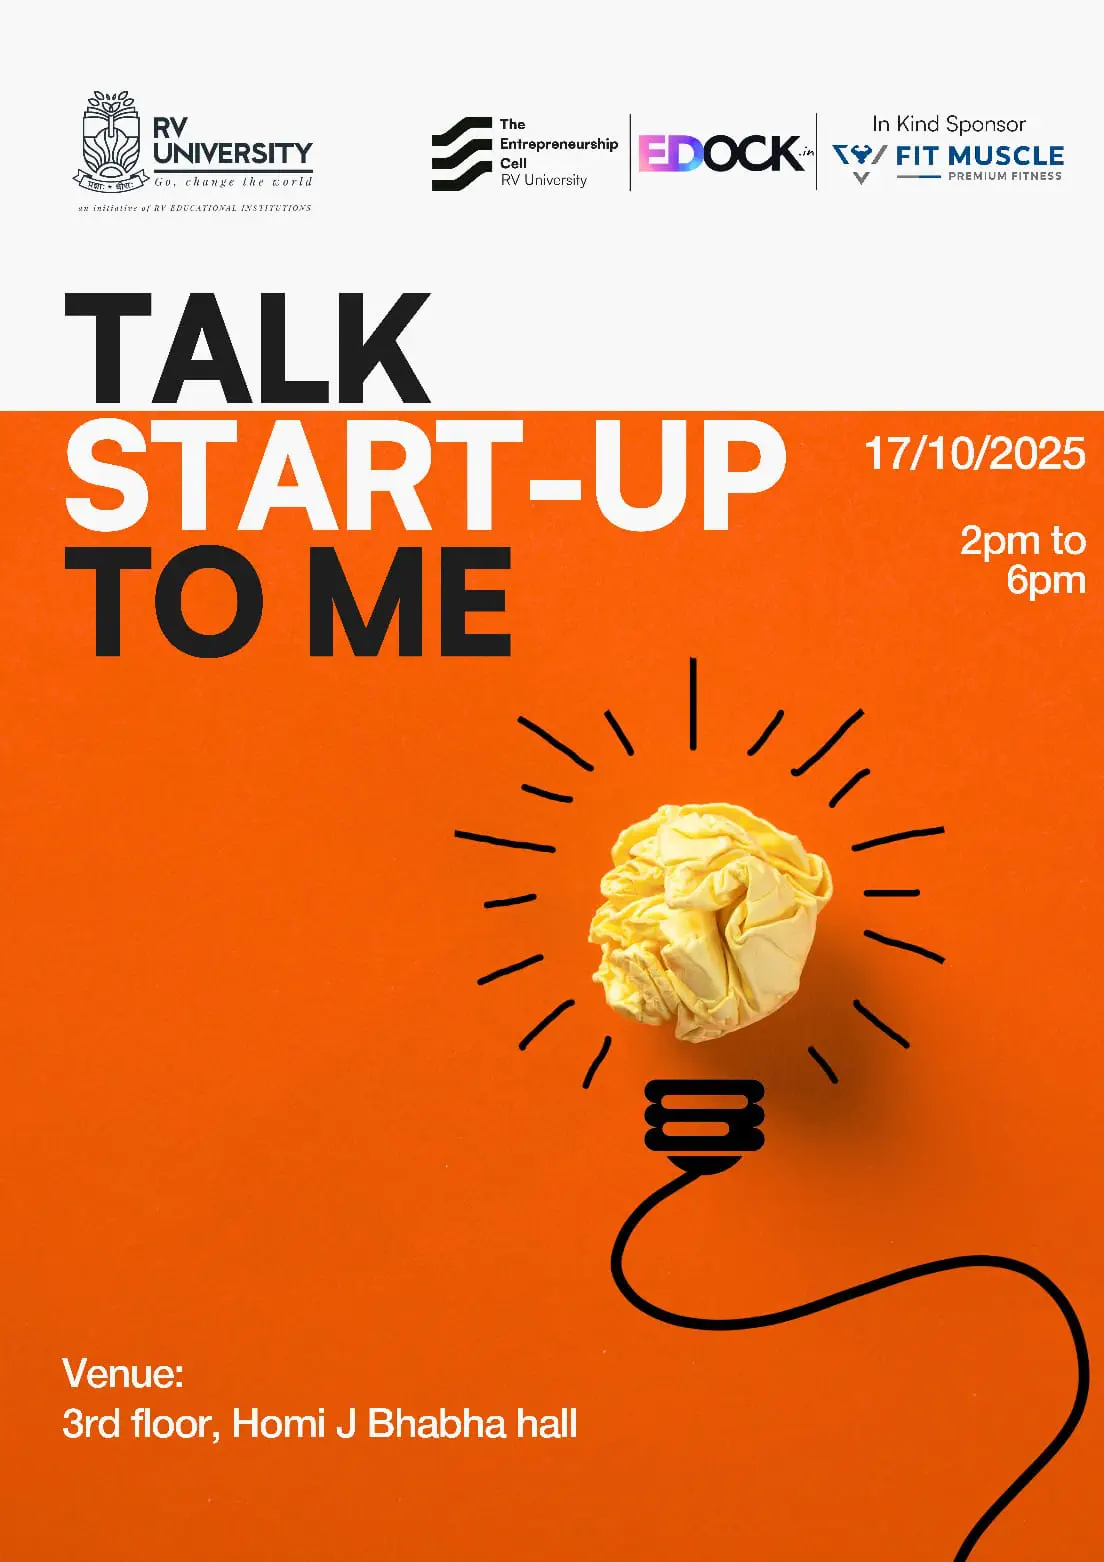
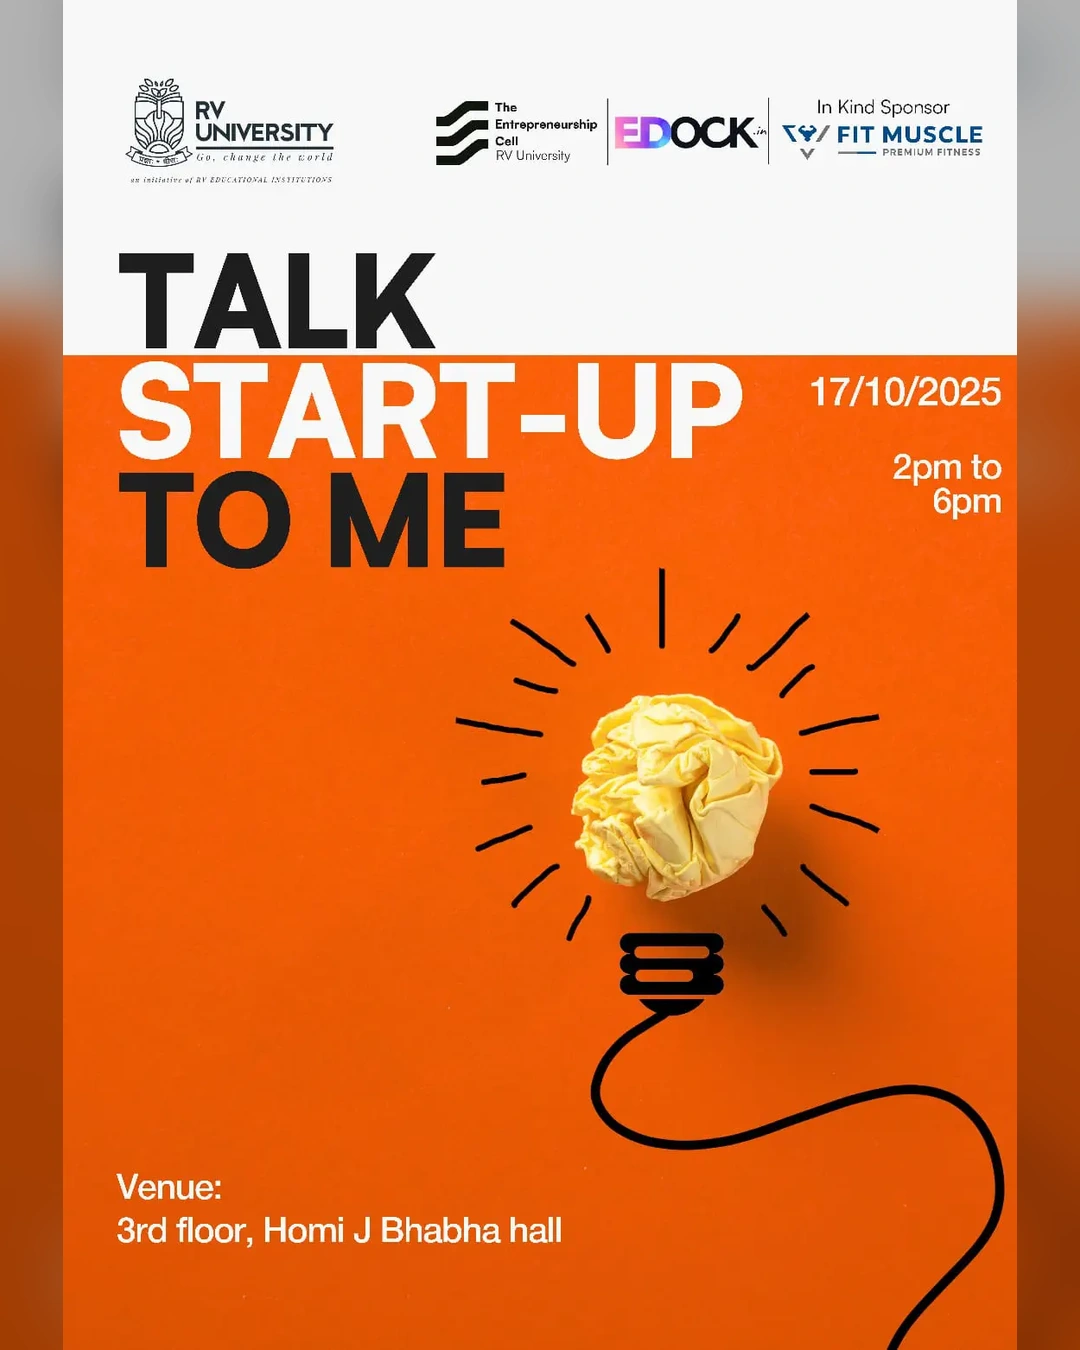
feat(legacy): use event posters, add view event CTAs, rename archive button

diff --git a/src/sections/Events/Events.css b/src/sections/Events/Events.css
@@ -231,7 +231,7 @@
 .events-card-media img {
   width: 100%;
   height: 100%;
-  object-fit: cover;
+  object-fit: contain;
   display: block;
   pointer-events: none;
   user-select: none;
@@ -872,7 +872,6 @@
   padding: 0;
 }
 
-/* Hover effect for individual VIEW EVENT buttons */
 .events-cta-card-button:hover {
   background: #000000;
   color: #ffffff;
@@ -882,7 +881,38 @@
     0 0 20px rgba(255, 255, 255, 0.2);
 }
 
-/* Arrow movement on hover */
 .events-cta-card-button:hover .events-cta-btn-icon {
   transform: translate(3px, -3px);
+}
+
+.events-card-media:not(.events-card-media--cta) {
+  height: auto;
+  aspect-ratio: 4 / 5;
+}
+
+.events-card-media:not(.events-card-media--cta) img {
+  width: 100%;
+  height: 100%;
+  object-fit: cover;
+}
+
+@media (max-width: 768px) {
+  .events-card-media:not(.events-card-media--cta) {
+    width: 100%;
+    height: auto;
+    aspect-ratio: 4 / 5;
+  }
+}
+
+.events-card-media--cta {
+  height: auto;
+  aspect-ratio: 4 / 5;
+}
+
+@media (max-width: 768px) {
+  .events-card-media--cta {
+    width: 100%;
+    height: auto;
+    aspect-ratio: 4 / 5;
+  }
 }
